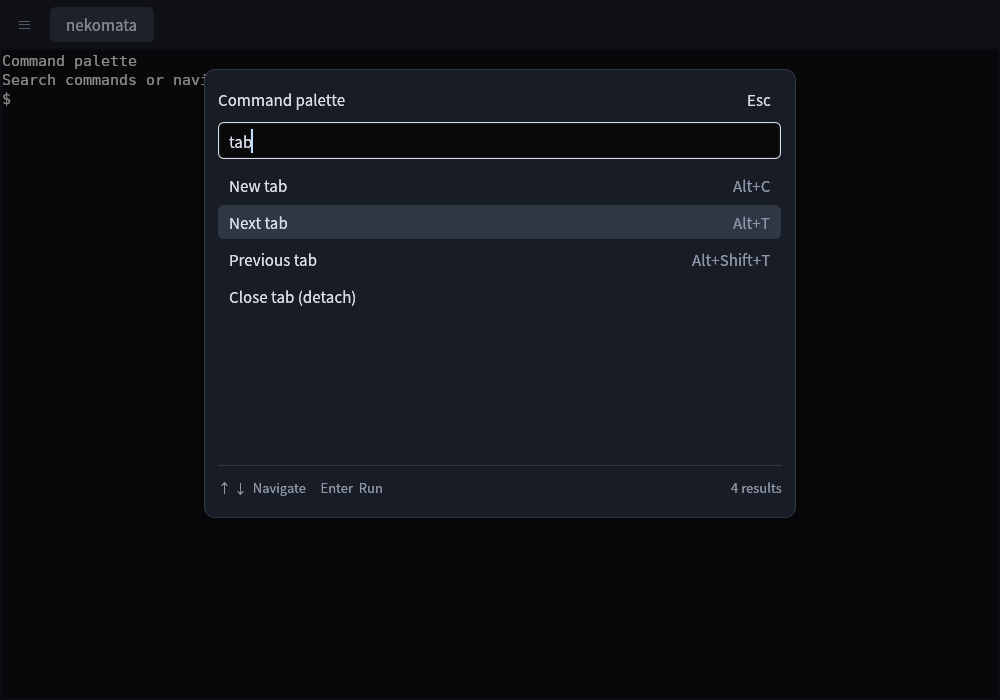
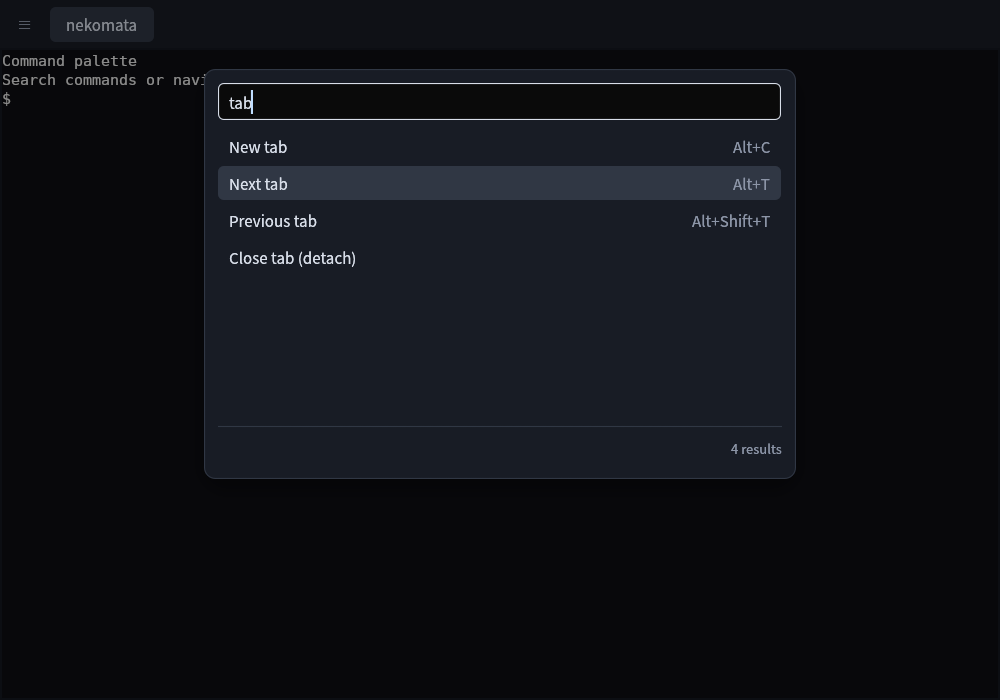
fix: keep the palette result count compact
Constrain the result count to one row so removing navigation instructions does not stretch the footer in small windows. Refresh screenshots from the verified simplified palette.

Changed region(s): [[0.217, 0.12, 0.806, 0.39], [0.186, 0.63, 0.806, 0.75], [0.217, 0.42, 0.372, 0.45]]

diff --git a/src/command_palette.rs b/src/command_palette.rs
@@ -157,12 +157,14 @@ impl CommandPalette {
                         }
                     });
                 ui.separator();
-                ui.with_layout(egui::Layout::right_to_left(egui::Align::Center), |ui| {
-                    ui.label(
-                        egui::RichText::new(format!("{} results", matches.len()))
-                            .size(12.0)
-                            .color(theme::TAB_INACTIVE_FG),
-                    );
+                ui.horizontal(|ui| {
+                    ui.with_layout(egui::Layout::right_to_left(egui::Align::Center), |ui| {
+                        ui.label(
+                            egui::RichText::new(format!("{} results", matches.len()))
+                                .size(12.0)
+                                .color(theme::TAB_INACTIVE_FG),
+                        );
+                    });
                 });
             });
         let dismissed = response.should_close();
